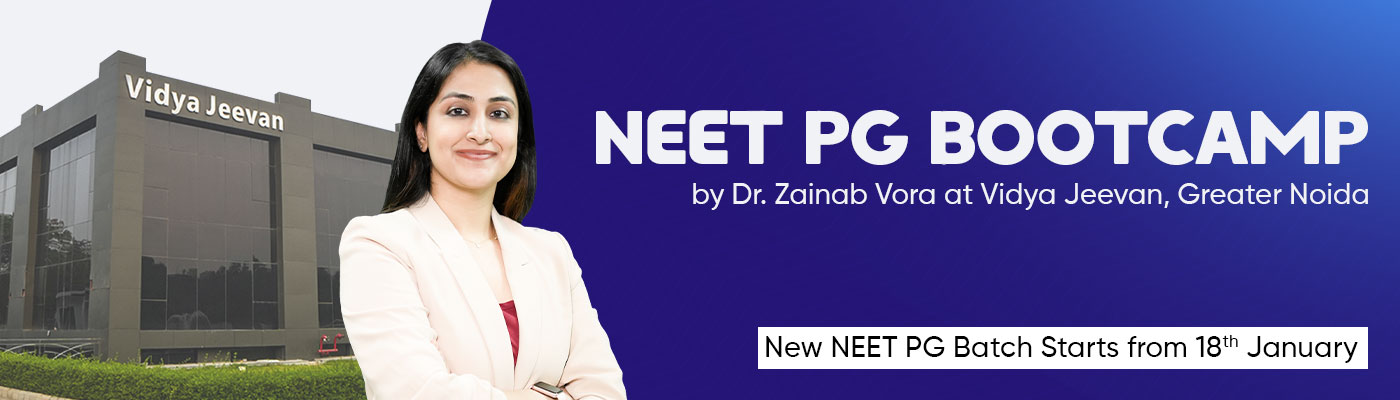
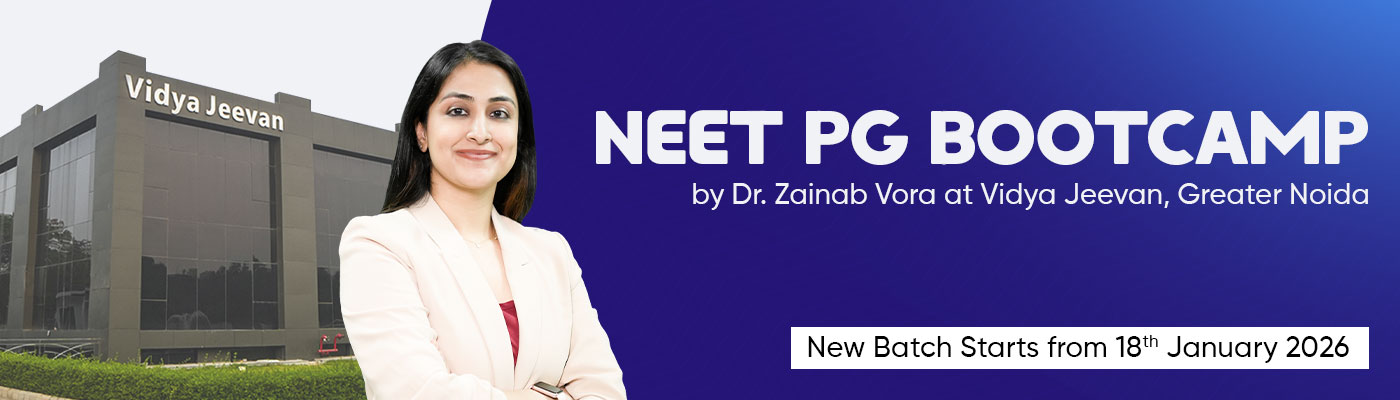
changes done

Changed region(s): [[0.5221, 0.81, 0.9829, 0.93]]

diff --git a/src/components/aboutBtr/AboutBtr.jsx b/src/components/aboutBtr/AboutBtr.jsx
@@ -12,10 +12,9 @@ function AboutBtr() {
         </div>
         <div className="about-btr-content">
           <h1 className="about-btr-heading">About BTR</h1>
-          <h2>A faculty who teached with Clarity, Precision and Purpose.</h2>
           <p>
-            BTR is the smarter way to prepare, created and led by Dr. Zainab
-            Vora, one of India’s most trusted radiology educators. Designed for
+            BTR is the smarter way to prepare for PG Exams, created and led by
+            Dr. Zainab Vora, one of India’s most trusted educators. Designed for
             NEET PG aspirants who need fast, focused, high-yield revision, BTR
             turns all 19 subjects into a clean, structured, exam-oriented plan.
             Students get Quick Revision Videos, Annotated PDF Notes (in-app),
@@ -25,7 +24,7 @@ function AboutBtr() {
             helps you revise faster, retain better, and score higher with a
             proven revision strategy built by Dr. Zainab Vora herself.
           </p>
-          <NavLink to="/btr"> See why students trust BTR</NavLink>
+          <NavLink to="/btr">See why students trust BTR</NavLink>
         </div>
       </div>
     </div>

diff --git a/src/components/careerTimeline/CareerTimeline.jsx b/src/components/careerTimeline/CareerTimeline.jsx
@@ -59,7 +59,7 @@ const CareerTimeline = () => {
     {
       title: "Journey as a PG Aspirant",
       description:
-        "As a postgraduate aspirant, Dr. Zainab Vora's preparation was defined by discipline, conceptual clarity, and smart strategy. Her dedication result in securing AIR 1 in both AIIMS PG and NIMHANS in the same year—a rare and remarkable achievement that continues to inspire PG aspirants across India.",
+        "As a postgraduate aspirant, Dr. Zainab Vora's preparation was defined by discipline, conceptual clarity, and smart strategy. Her dedication resulted in securing AIR 1 in both AIIMS PG and NIMHANS in the same year—a rare and remarkable achievement that continues to inspire PG aspirants across India.",
     },
     {
       title: "The Beginning of Her Educator Journey",

diff --git a/src/components/aboutBtr/AboutBtr.css b/src/components/aboutBtr/AboutBtr.css
@@ -27,18 +27,12 @@
   width: 40%;
   align-content: center;
   color: #27187e;
-  padding: 1rem 0 2rem 0;
-}
-
-.about-btr-content h2 {
-  font-size: 24px;
-  font-weight: 500;
 }
 
 .about-btr-content p {
   font-size: 20px;
   line-height: 28px;
-  margin: 1.5rem 0;
+  margin: 1rem 0 2rem 0;
 }
 
 .about-btr-content a {

diff --git a/src/components/bootcamp/Bootcamp.jsx b/src/components/bootcamp/Bootcamp.jsx
@@ -66,7 +66,7 @@ function Bootcamp() {
             </li>
           </ul>
           <p>
-            New NEET PG batch starts from 18<sup>th</sup> January
+            New Batch Starts from 18<sup>th</sup> January 2026
           </p>
         </div>
       </div>
